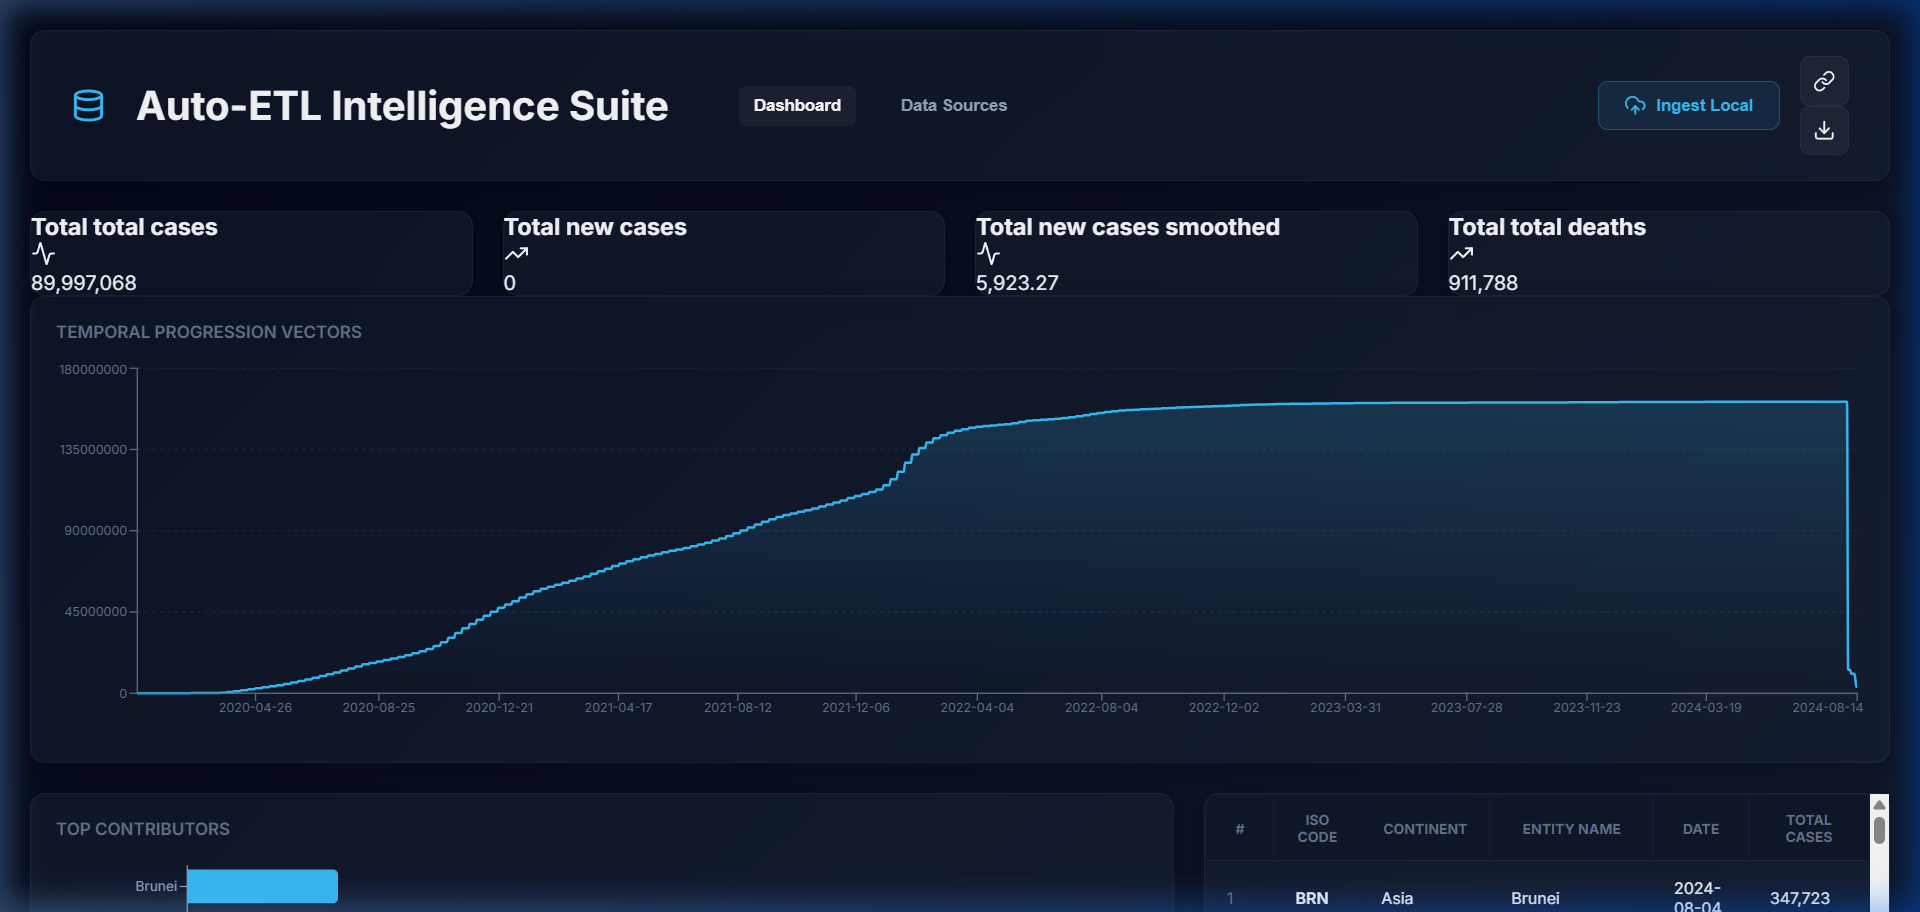
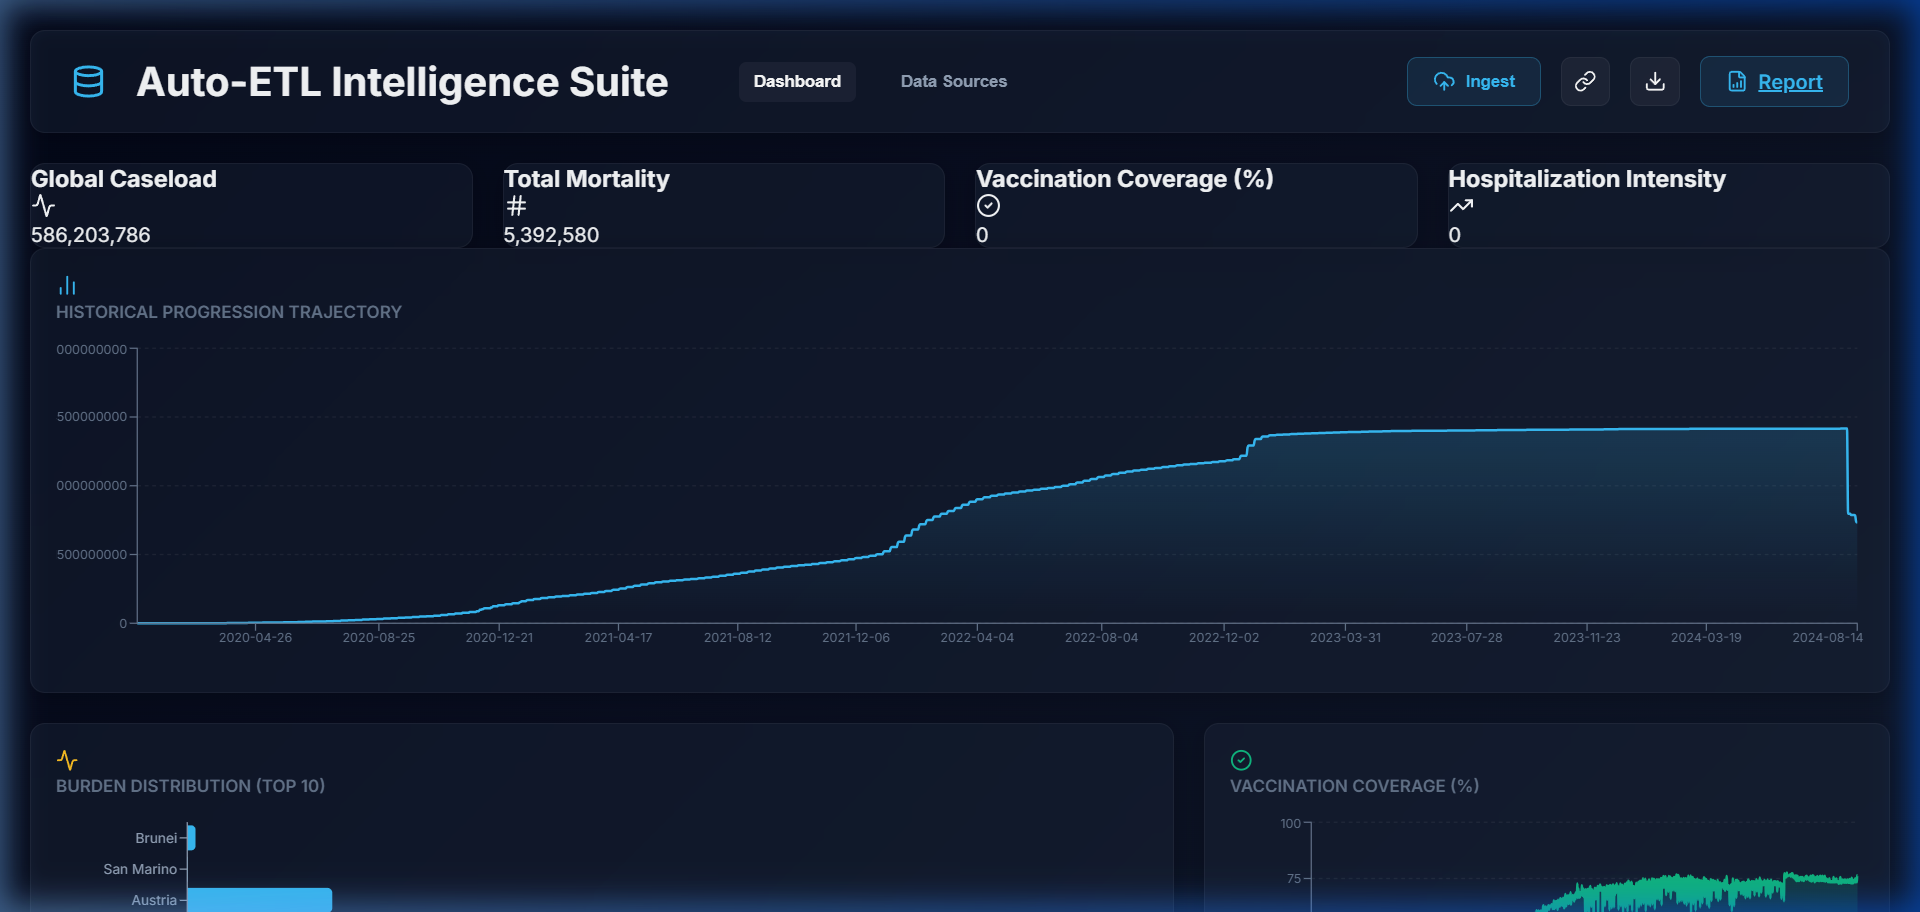
readme updated

diff --git a/README.md b/README.md
@@ -1,68 +1,85 @@
-# Universal Auto-ETL Analytics Platform
+# Medical Intelligence Analytics Suite
 
-This project provides an automated Extract, Transform, and Load (ETL) data pipeline coupled with a real-time responsive web dashboard. It accepts generic CSV datasets, dynamically infers schema structures, calculates multidimensional metrics, and serves the results through a FastAPI backend to a React frontend.
+Professional-grade epidemiological data ingestion, clinical auditing, and real-time visualization platform. This suite transforms raw public health data into actionable intelligence through automated integrity verification and high-fidelity reporting.
 
-## Architecture
+## 🏥 Clinical Intelligence Dashboard
 
-* Backend: Python 3.10, FastAPI, Pandas, Great Expectations.
-* Frontend: Node.js, React, Vite, Recharts, Vanilla CSS (Glassmorphism).
-* Pipeline: Automated data parsing, type-inference, cleaning, and dual-axis aggregation (Entity totals and Time-Series progression).
+### System Overview
+![Main Dashboard](./docs/screenshots/dashboard_overview.png)
+*Mission Control: Real-time trends, validated KPIs, and global progression vectors.*
 
-## Visual Overview
+### Ingest & Integrity Reporting
+![Reporting & Ingest](./docs/screenshots/dashboard_reporting.png)
+*One-click synchronization with public clinical registries and automated PDF Integrity Briefing generation.*
 
-### Main Dashboard
-![Dashboard Overview](./docs/screenshots/dashboard_overview.png)
+### Multi-Registry Management
+![Data Sources](./docs/screenshots/dashboard_sources.png)
+*Manage and synchronize multiple clinical endpoints for comparative analysis.*
 
-### Entity Analysis
-![Entity Analysis](./docs/screenshots/dashboard_entities.png)
+## 📈 Clinical Visualization Gallery
 
-### Time Series Progression
-![Time Series Analysis](./docs/screenshots/dashboard_timeseries.png)
+The Mission Control dashboard provides a multi-dimensional view of the pandemic's trajectory through high-fidelity graphics.
 
-## Local Execution
+### 1. Historical Progression Trajectory
+![Historical Progression](./docs/screenshots/chart_historical.png)
+*Visualizes the global cumulative caseload over time, audited for clinical consistency.*
+
+### 2. Burden Distribution (Top 10)
+![Burden Distribution](./docs/screenshots/chart_burden.png)
+*Identifies top-contributing regions by total volume to prioritize resource allocation.*
+
+### 3. Vaccination Coverage (%)
+![Vaccination Coverage](./docs/screenshots/chart_vaccination.png)
+*Monitors global population protection levels through normalized coverage tracking.*
+
+### 4. Hospitalization Intensity
+![Hospitalization Intensity](./docs/screenshots/chart_hospitalization.png)
+*Tracks the strain on clinical infrastructure via daily inpatient census metrics.*
+
+## 🛠 Technology Stack
+
+- **Intelligence Engine (Python)**:
+  - **Pandas & SciPy**: Advanced statistical cleaning, Monotonicity Enforcement, and MAD-based outlier redistribution.
+  - **FastAPI**: High-performance REST API serving clinical snapshots and time-series data.
+  - **FPDF2**: Automated generation of professional clinical integrity briefings (PDF).
+- **Mission Control (React)**:
+  - **Vite & Recharts**: High-fidelity responsive visualization of progression vectors.
+  - **Lucide React**: Expressive clinical iconography.
+  - **Vanilla CSS**: Premium glassmorphism-inspired clinical interface.
+
+## 📊 KPI Dictionary & Logic
+
+| KPI Name | Clinical Meaning | Mathematical Logic |
+| :--- | :--- | :--- |
+| **Global Caseload** | Total validated infections | Cumulative Sum (Repaired for Monotonicity) |
+| **Total Mortality** | Verified clinical fatalities | Cumulative Sum (Audit-verified) |
+| **Vaccination Coverage (%)** | Population protection level | Global Mean of Normalized Coverage (%) |
+| **Hospitalization Intensity** | Clinical occupancy load | Global Mean of Patients per Million |
+
+## 🚀 Getting Started
 
 ### Prerequisites
-* Python 3.10+
-* Node.js 18+
+* Python 3.10+ & Node.js 18+
 
-### Initialization
-1. Create and activate a virtual environment in the project root:
+### Quick Launch (Windows)
+1. Initialize the environment:
+   ```powershell
    python -m venv venv
-   source venv/bin/activate  # On Windows: .\venv\Scripts\activate
-
-2. Install backend dependencies:
+   .\venv\Scripts\activate
    pip install -r requirements.txt
-
-3. Install frontend dependencies:
-   cd frontend
-   npm install
-
-### Running the Services
-To run both the backend and frontend simultaneously on Windows, execute the provided batch script:
+   cd frontend && npm install && cd ..
+   ```
+2. Start the suite:
+   ```powershell
    .\run_dashboard.bat
+   ```
 
-Alternatively, run them separately:
-* Backend: `cd api && uvicorn main:app --reload`
-* Frontend: `cd frontend && npm run dev`
+### Operational Pipeline
+Use `.\RUN_PIPELINE.bat` to execute a full data cycle:
+1. **Ingest**: Download latest data from OWID/Public sources.
+2. **Clean**: Apply Monotonicity and MAD-based redistribution.
+3. **Audit**: Execute clinical quality assurance checks.
+4. **Report**: Synchronize dashboard and generate **Integrity Briefing PDF**.
 
-Access the application via http://localhost:5173.
-
-## Docker Deployment
-
-A multi-stage Dockerfile is included to containerize and serve both the Python backend API and the compiled React frontend simultaneously.
-
-1. Build the Docker image:
-   docker build -t auto-etl-platform .
-
-2. Run the Docker container:
-   docker run -d -p 8000:8000 -p 5173:5173 --name etl-dashboard auto-etl-platform
-
-3. Access the deployed application bounds remotely via port 5173 or locally at http://localhost:5173.
-
-## Power BI Integration
-
-The platform provides a direct sync endpoint for Power BI:
-1. In Power BI Desktop, go to **Get Data** -> **Web**.
-2. Paste the following URL: `http://localhost:8000/api/pbi` (or click the Link icon in the dashboard header).
-3. Power BI will automatically detect the schema and allow you to build custom reports that update whenever the ETL pipeline runs.
-
+---
+*Developed for the Medical Intelligence Unit - Automated Data Quality Control.*
